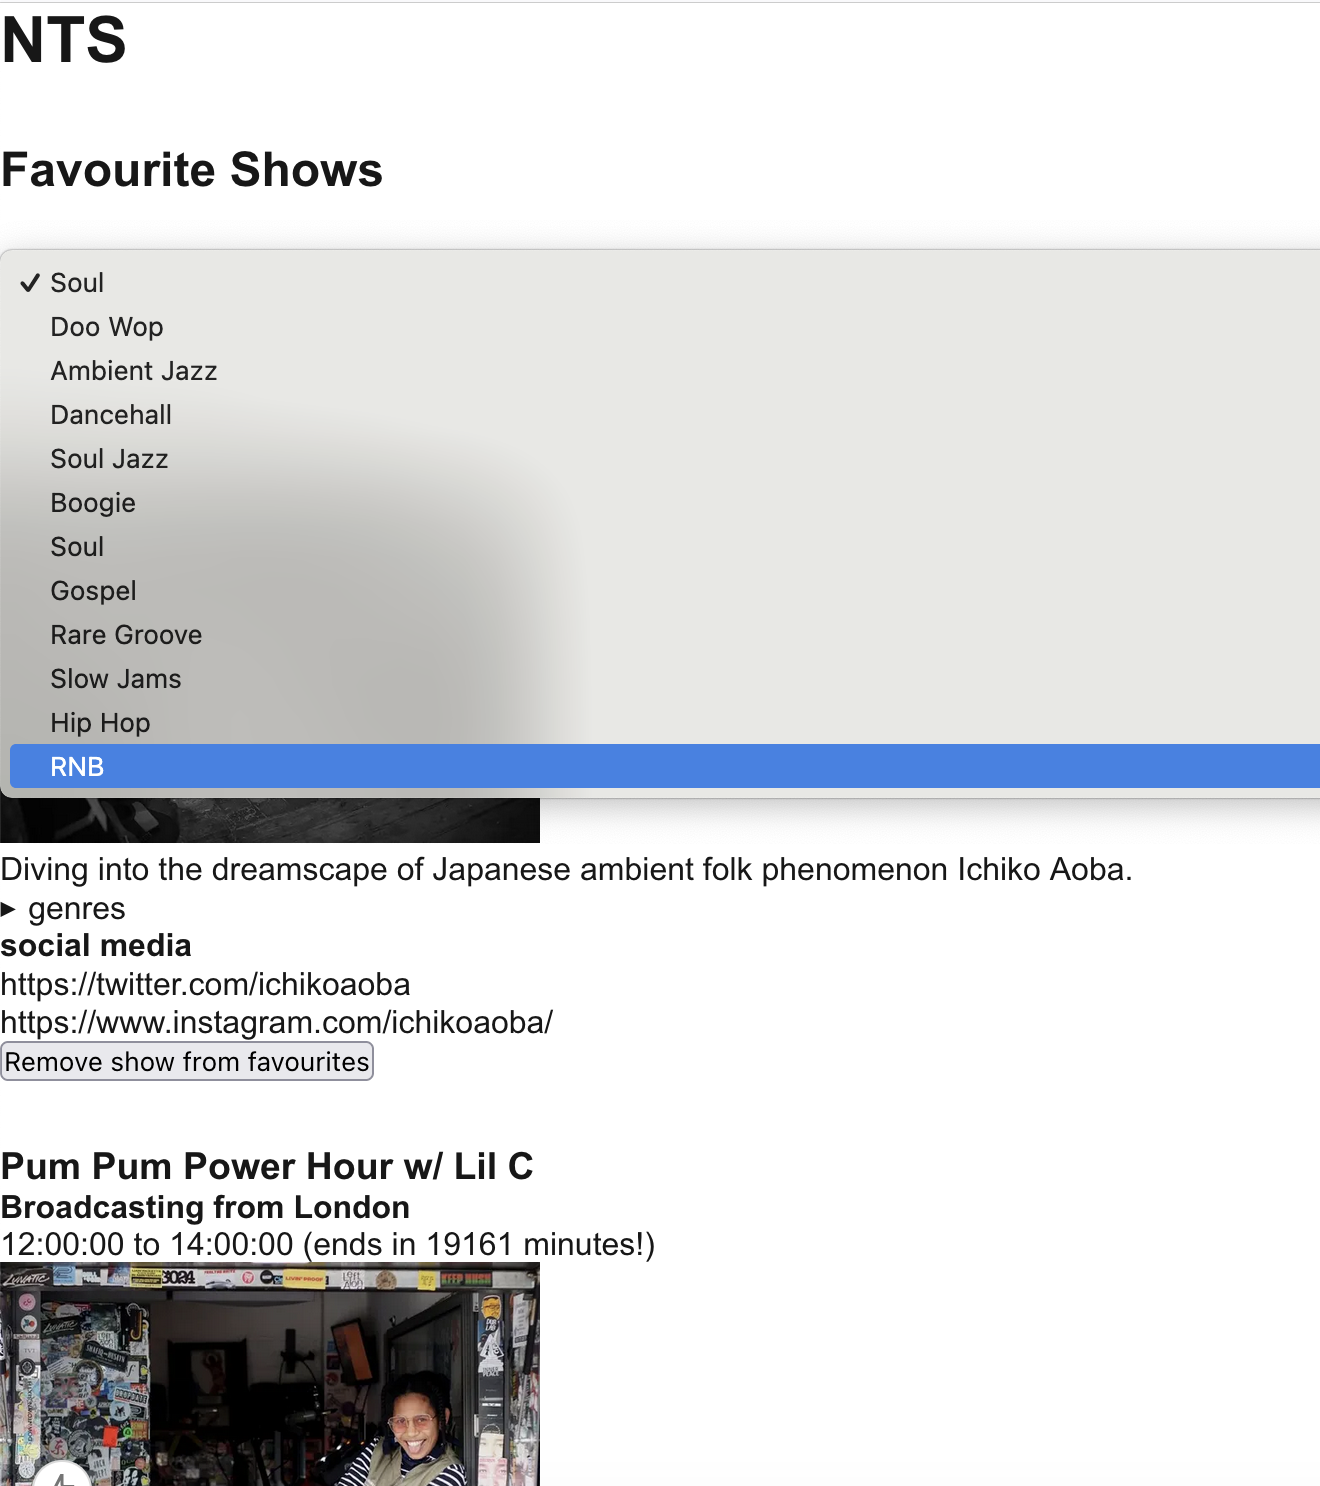
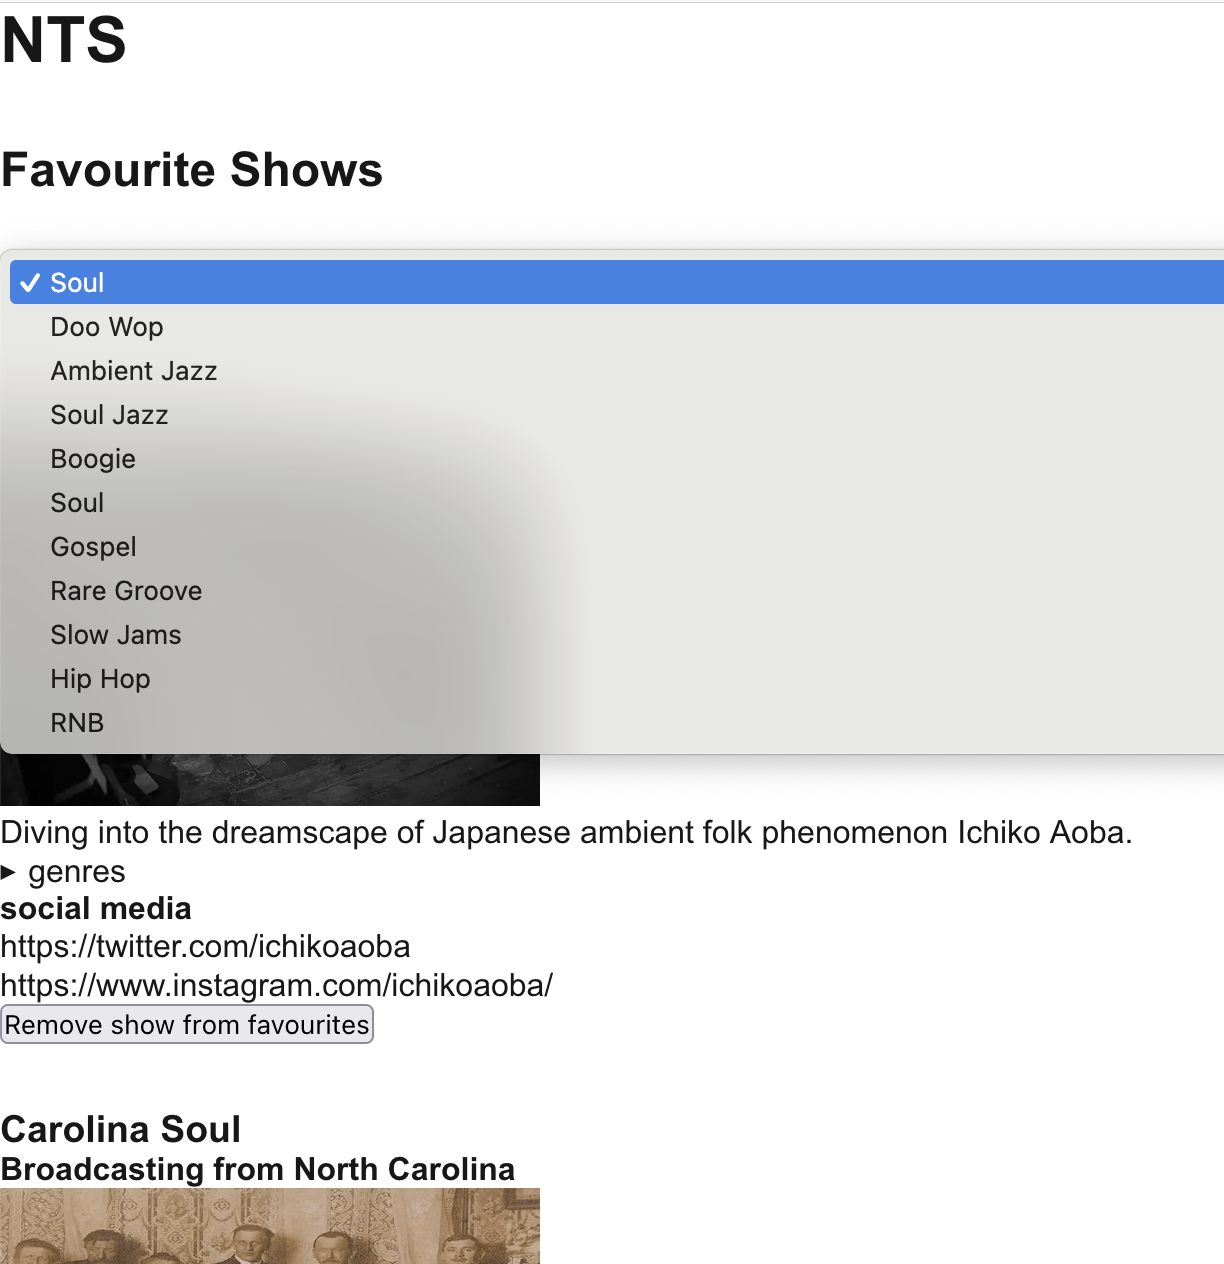
refresh on removing from favourites

Changed region(s): [[0.0, 0.0926, 1.0, 1.0], [0.0, 0.0, 0.1242, 0.0617]]

diff --git a/app/src/app/live_show.tsx b/app/src/app/live_show.tsx
@@ -1,45 +1,53 @@
-import Image from 'next/image'
-import type { Show } from '../utils/schemas/live'
-import { caclulateTimeFromString, findTimeDifference } from '../utils/time'
+import Image from "next/image";
+import type { Show } from "../utils/schemas/live";
+import { caclulateTimeFromString, findTimeDifference } from "../utils/time";
 
-export function LiveShow(props: Show) {
-  const startTimeDate = caclulateTimeFromString(props.startTime)
-  const endTimeDate = caclulateTimeFromString(props.endTime)
+type LiveShowProps = {
+  show: Show;
+  isFavourite?: boolean;
+};
+
+export function LiveShow(props: LiveShowProps) {
+  const { show, isFavourite = false } = props;
+  const startTimeDate = caclulateTimeFromString(show.startTime);
+  const endTimeDate = caclulateTimeFromString(show.endTime);
 
   return (
-    <div key={props.broadcastName}>
-      <h3>{props.broadcastName}</h3>
-      <h4>Broadcasting from {props.location}</h4>
-      <p>
-        {startTimeDate} to {endTimeDate} (ends in{' '}
-        {findTimeDifference(Date.now(), Date.parse(props.endTime))} minutes!)
-      </p>
-      <Image src={props.picture} width={270} height={180} alt="piccy" />
-      <p>{props.description}</p>
-      {props.genres.length > 0 && (
+    <div key={show.broadcastName}>
+      <h3>{show.broadcastName}</h3>
+      <h4>Broadcasting from {show.location}</h4>
+      {!isFavourite && (
+        <p>
+          {startTimeDate} to {endTimeDate} (ends in{" "}
+          {findTimeDifference(Date.now(), Date.parse(show.endTime))} minutes!)
+        </p>
+      )}
+      <Image src={show.picture} width={270} height={180} alt="piccy" />
+      <p>{show.description}</p>
+      {show.genres.length > 0 && (
         <details>
           <summary>genres</summary>
           <ul>
-            {props.genres.map((genre: Record<string, string>) => {
-              return <li key={genre.id}>{genre.value}</li>
+            {show.genres.map((genre: Record<string, string>) => {
+              return <li key={genre.id}>{genre.value}</li>;
             })}
           </ul>
         </details>
       )}
-      {props.links.length > 0 && (
+      {show.links.length > 0 && (
         <div>
           <h4>social media</h4>
           <ul>
-            {props.links.map((link: string) => {
+            {show.links.map((link: string) => {
               return (
                 <a key={link} href={link} target="blank">
                   <li key={link}>{link}</li>
                 </a>
-              )
+              );
             })}
           </ul>
         </div>
       )}
     </div>
-  )
+  );
 }

diff --git a/app/src/app/page.tsx b/app/src/app/page.tsx
@@ -1,21 +1,21 @@
-import Link from 'next/link'
-import type { Show } from '../utils/schemas/live.ts'
-import { getLive } from './api/shows/shows.ts'
-import { FavouriteShowButton, ListenToShowButton } from './button.tsx'
-import { LiveShow } from './live_show.tsx'
-import styles from './page.module.css'
+import Link from "next/link";
+import type { Show } from "../utils/schemas/live.ts";
+import { getLive } from "./api/shows/shows.ts";
+import { FavouriteShowButton, ListenToShowButton } from "./button.tsx";
+import { LiveShow } from "./live_show.tsx";
+import styles from "./page.module.css";
 
 export default async function Home() {
-  const result = await getLive()
-  const lives: Show[] = await result.json()
+  const result = await getLive();
+  const lives: Show[] = await result.json();
 
-  const dateNow = new Date()
-  const dateNowStr = dateNow.toDateString()
+  const dateNow = new Date();
+  const dateNowStr = dateNow.toDateString();
   const timeNowStr = dateNow
-    .toLocaleTimeString('en-GB')
-    .split(':')
+    .toLocaleTimeString("en-GB")
+    .split(":")
     .slice(0, -1)
-    .join(':')
+    .join(":");
 
   return (
     <div className={styles.page}>
@@ -27,16 +27,16 @@ export default async function Home() {
         <Link href="/favourites">
           <h3>FAVOURITES</h3>
         </Link>
-        {lives.map(live => {
+        {lives.map((live) => {
           return (
             <div key={live.broadcastName}>
-              <LiveShow {...live} />
+              <LiveShow show={live} />
               <ListenToShowButton channelName={live.channelName} />
               <FavouriteShowButton {...live} />
             </div>
-          )
+          );
         })}
       </main>
     </div>
-  )
+  );
 }

diff --git a/app/src/app/button.tsx b/app/src/app/button.tsx
@@ -3,10 +3,11 @@
 import { useState } from "react";
 import ReactAudioPlayer from "react-audio-player";
 import type { Show } from "../utils/schemas/live";
+import Link from "next/link";
 
 export function FavouriteShowButton(props: Show) {
   const addShowToFavourites = async (show: Show) => {
-    const res = await fetch("http://localhost:3000/api/shows/favourites", {
+    await fetch("http://localhost:3000/api/shows/favourites", {
       method: "POST",
       headers: {
         Accept: "application/json",
@@ -14,7 +15,6 @@ export function FavouriteShowButton(props: Show) {
       },
       body: JSON.stringify({ ...show }),
     });
-    const content = await res.json();
   };
 
   return (
@@ -29,7 +29,7 @@ type UnFavouriteShowButtonProps = {
 };
 export function UnFavouriteShowButton(props: UnFavouriteShowButtonProps) {
   const removeShowFromFavourites = async (broadcastName: string) => {
-    return await fetch("http://localhost:3000/api/shows/favourites", {
+    await fetch("http://localhost:3000/api/shows/favourites", {
       method: "DELETE",
       headers: {
         Accept: "application/json",
@@ -40,12 +40,14 @@ export function UnFavouriteShowButton(props: UnFavouriteShowButtonProps) {
   };
 
   return (
-    <button
-      type="button"
-      onClick={() => removeShowFromFavourites(props.broadcastName)}
-    >
-      Remove show from favourites
-    </button>
+    <Link href="/favourites">
+      <button
+        type="button"
+        onClick={() => removeShowFromFavourites(props.broadcastName)}
+      >
+        Remove show from favourites
+      </button>
+    </Link>
   );
 }
 

diff --git a/app/src/app/favourites/page.tsx b/app/src/app/favourites/page.tsx
@@ -25,7 +25,7 @@ export default async function Favourites() {
       {shows.map((show: FavouriteShow) => {
         return (
           <div key={show._id}>
-            <LiveShow {...show} />
+            <LiveShow show={show} isFavourite={true} />
             <UnFavouriteShowButton broadcastName={show.broadcastName} />
           </div>
         );
